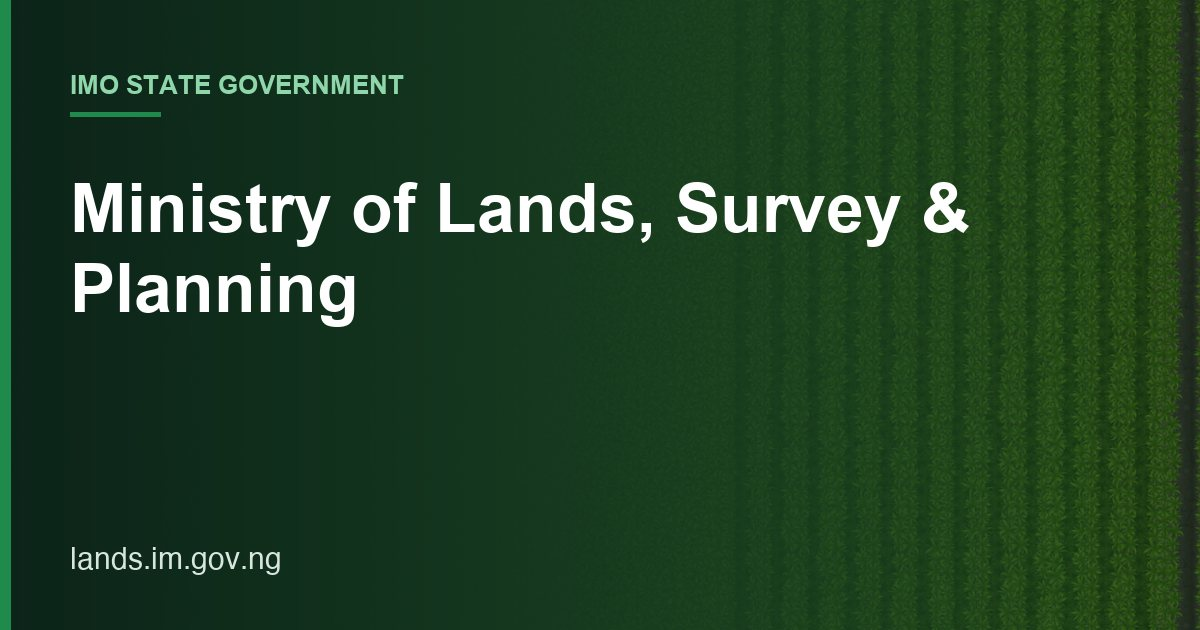
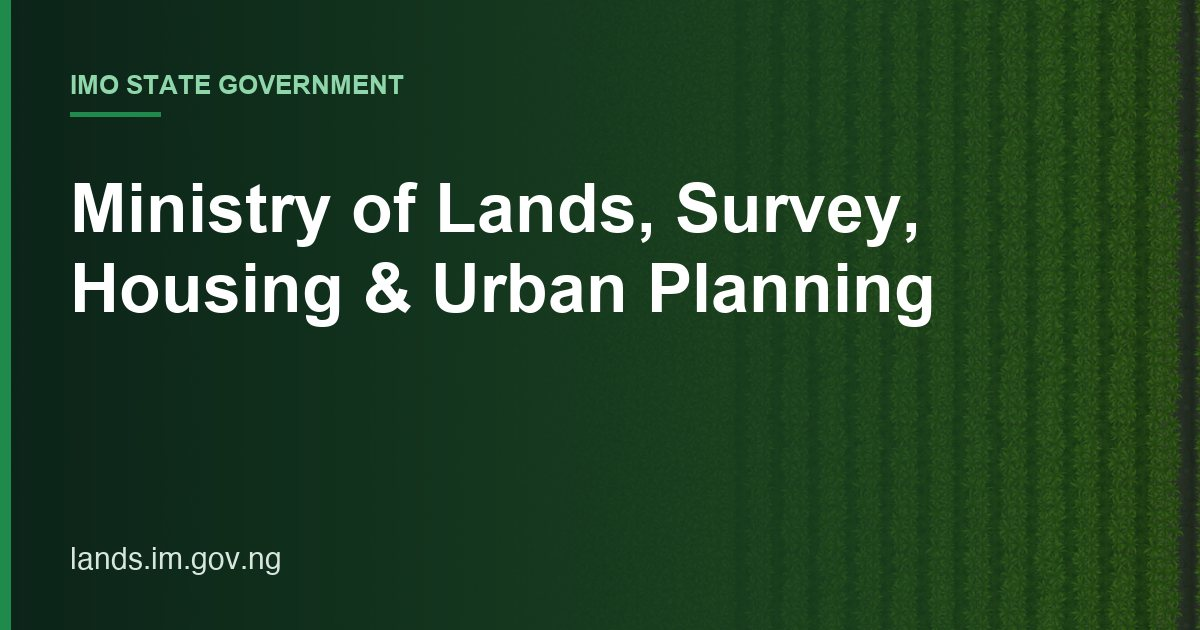
SEO sprint 3: titles and descriptions from real service content; correct official ministry name
- Home/about/services metadata written from the site's own content and services
- Use the official ministry names shown on each site; regenerate OG image
- Shorter page titles so keywords come first

Changed region(s): [[0.0617, 0.3921, 0.8017, 0.5429], [0.74, 0.2714, 0.8017, 0.3921]]

diff --git a/lib/seo.ts b/lib/seo.ts
@@ -2,9 +2,9 @@ import type { Metadata } from "next";
 
 // Verified production domain (Vercel project domain). Override per environment if needed.
 export const SITE_URL = (process.env.NEXT_PUBLIC_SITE_URL || "https://lands.im.gov.ng").replace(/\/$/, "");
-export const SITE_NAME = "Ministry of Lands, Survey & Planning";
+export const SITE_NAME = "Ministry of Lands, Survey, Housing and Urban Planning";
 export const DEFAULT_DESCRIPTION =
-  "Official website of the Ministry of Lands, Survey & Planning, Imo State Government: services, departments, projects, news and events.";
+  "Official website of the Ministry of Lands, Survey, Housing and Urban Planning, Imo State Government: services, departments, projects, news and events.";
 export const OG_IMAGE_PATH = "/og-image.jpg";
 
 type Title = NonNullable<Metadata["title"]>;

diff --git a/app/page.tsx b/app/page.tsx
@@ -11,8 +11,8 @@ import CustomImage from "./components/CustomImage";
 import { pageMetadata } from "@/lib/seo";
 
 export const metadata = pageMetadata({
-  title: { absolute: "Ministry of Lands, Survey & Planning | Imo State Government" },
-  description: "Official website of the Ministry of Lands, Survey & Planning, Imo State Government: services, departments, projects, news and events.",
+  title: { absolute: "Imo State Ministry of Lands, Survey, Housing and Urban Planning" },
+  description: "Land administration in Imo State: Certificate of Occupancy (C of O), land allocation, survey and mapping, urban planning, development control and housing.",
   path: "/",
 });
 

diff --git a/app/services/page.tsx b/app/services/page.tsx
@@ -7,8 +7,8 @@ import { FaHandsHelping } from 'react-icons/fa';
 import { pageMetadata } from "@/lib/seo";
 
 export const metadata = pageMetadata({
-  title: "Services",
-  description: "Services offered by the Ministry of Lands, Survey & Planning of the Imo State Government.",
+  title: "Land Administration, Survey and Planning Services",
+  description: "C of O issuance, land allocation, ownership verification, survey and mapping, physical planning, land use charge and digital land services in Imo State.",
   path: "/services",
 });
 

diff --git a/app/contact/layout.tsx b/app/contact/layout.tsx
@@ -2,7 +2,7 @@ import { pageMetadata } from "@/lib/seo";
 
 export const metadata = pageMetadata({
   title: "Contact Us",
-  description: "Contact the Ministry of Lands, Survey & Planning, Imo State Government: office location and ways to reach the ministry.",
+  description: "Contact the Ministry of Lands, Survey, Housing and Urban Planning, Imo State Government: office location and ways to reach the ministry.",
   path: "/contact",
 });
 

diff --git a/app/about/page.tsx b/app/about/page.tsx
@@ -13,7 +13,7 @@ import { pageMetadata } from "@/lib/seo";
 
 export const metadata = pageMetadata({
   title: "About Us",
-  description: "About the Ministry of Lands, Survey & Planning of the Imo State Government: who we are and what we do.",
+  description: "The statutory body for land administration, urban spatial planning and housing policy in Imo State, working with IGIS to digitise land records.",
   path: "/about",
 });
 

diff --git a/app/news/page.tsx b/app/news/page.tsx
@@ -10,7 +10,7 @@ import { pageMetadata } from "@/lib/seo";
 
 export const metadata = pageMetadata({
   title: "News",
-  description: "Latest news, announcements and updates from the Ministry of Lands, Survey & Planning, Imo State.",
+  description: "Latest news, announcements and updates from the Ministry of Lands, Survey, Housing and Urban Planning, Imo State.",
   path: "/news",
 });
 

diff --git a/app/media/page.tsx b/app/media/page.tsx
@@ -6,7 +6,7 @@ import { pageMetadata } from "@/lib/seo";
 
 export const metadata = pageMetadata({
   title: "Media Gallery",
-  description: "Photo and media gallery of the Ministry of Lands, Survey & Planning, Imo State Government.",
+  description: "Photo and media gallery of the Ministry of Lands, Survey, Housing and Urban Planning, Imo State Government.",
   path: "/media",
 });
 

diff --git a/app/projects/page.tsx b/app/projects/page.tsx
@@ -17,7 +17,7 @@ import { pageMetadata } from "@/lib/seo";
 
 export const metadata = pageMetadata({
   title: "Projects",
-  description: "Projects and programmes of the Ministry of Lands, Survey & Planning, Imo State Government.",
+  description: "Projects and programmes of the Ministry of Lands, Survey, Housing and Urban Planning, Imo State Government.",
   path: "/projects",
 });
 

diff --git a/app/department/page.tsx b/app/department/page.tsx
@@ -5,7 +5,7 @@ import { pageMetadata } from "@/lib/seo";
 
 export const metadata = pageMetadata({
   title: "Departments",
-  description: "Departments and units of the Ministry of Lands, Survey & Planning, Imo State Government.",
+  description: "Departments and units of the Ministry of Lands, Survey, Housing and Urban Planning, Imo State Government.",
   path: "/department",
 });
 

diff --git a/app/events/page.tsx b/app/events/page.tsx
@@ -8,7 +8,7 @@ import { pageMetadata } from "@/lib/seo";
 
 export const metadata = pageMetadata({
   title: "Events",
-  description: "Events organised by the Ministry of Lands, Survey & Planning, Imo State Government.",
+  description: "Events organised by the Ministry of Lands, Survey, Housing and Urban Planning, Imo State Government.",
   path: "/events",
 });
 
